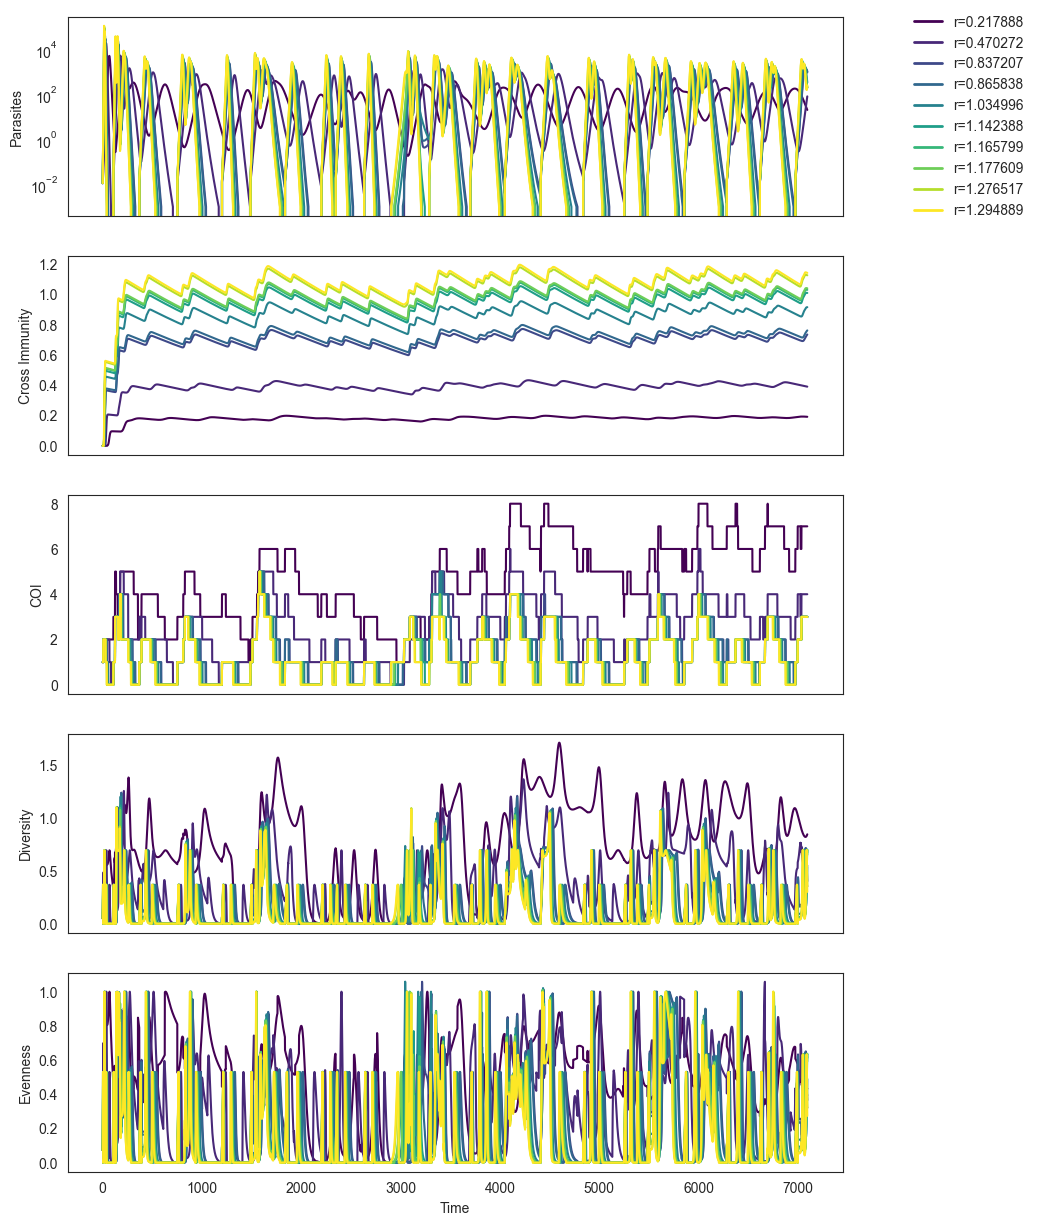
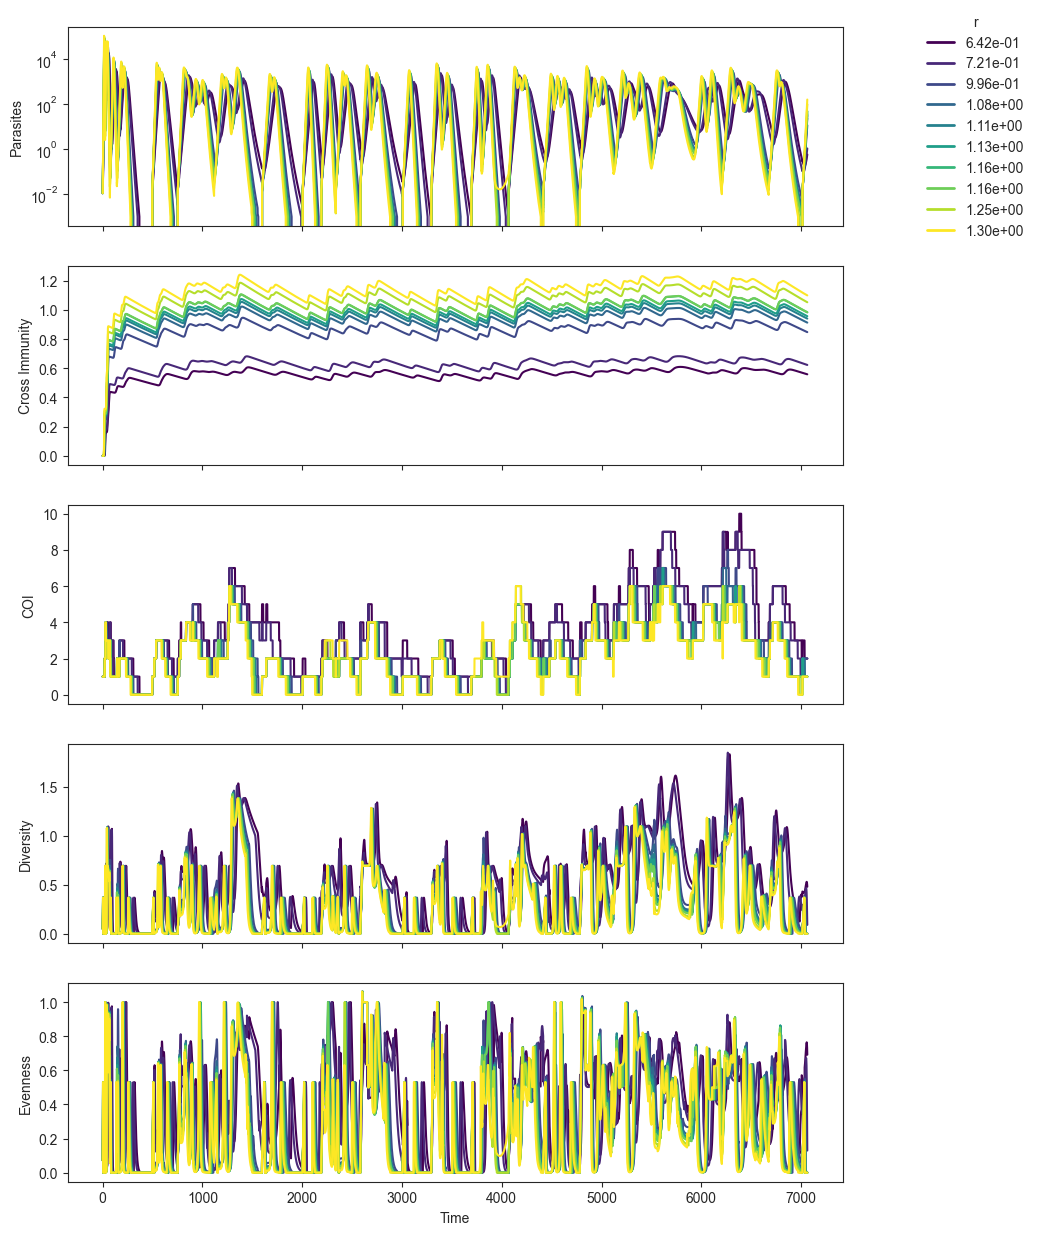
modificaciones a las distribuciones

diff --git a/ode-solver-simulation/src/simulation.py b/ode-solver-simulation/src/simulation.py
@@ -1,32 +1,34 @@
+
 import numpy as np
 import pandas as pd
-from utils import sweep_parameters, runs, params,sweep_mean_infections
+from utils import sweep_parameters, runs, params,sweep_mean_infections,shannon_diversity,runs_a
 from scipy.stats import ttest_ind
 import matplotlib.pyplot as plt
 import plots
+
+np.random.seed(19680801)
 
 p= params()
 
 #Hypothesis: this should not effect on persistency  
      
 # First simulation: r is a value in a uniform distribution between 0.5 to 1
-#r_values_uniform = np.log(np.sort(np.random.uniform(1, 14, 10)))/2
-#s1= sweep_parameters(p,'r',r_values_uniform)
+r_values_uniform = np.log(np.sort(np.random.uniform(1, 14, 10)))/2
+s1= sweep_parameters(p,'r',r_values_uniform)
     
 # Second simulation: r is a randomly picked value in the same uniform distribution for each n_strain
 
-
-#s2= runs('r',p,10)
+s2= runs('r',p,10)
 
 #Third simulation: alpha is a value between 7e- 5to 7e-7 
-#exponents = np.arange(4, 8, 0.25)
-#alpha_values = 7 * 10**(-exponents)
-#s3= sweep_parameters(p,'a',alpha_values)
+exponents = np.arange(4, 8, 0.25)
+alpha_values = 7 * 10**(-exponents)
+s3= sweep_parameters(p,'a',alpha_values)
 
 
 #Fourth simulation: alpha is randomly picked value from a normal distribution for each n_strain
-
-s4= runs('a',p,10)
+s41= runs_a(p,10) #uniforme
+s4,distributions= runs_a(p,10,'normal',1*(10**-4))
 
 
 #Changing mean infection times 
@@ -35,9 +37,14 @@ mean_infections=np.round(np.linspace(1,10,10))
 s5=sweep_mean_infections(mean_infections)
 
 # Plot the simulations
-#plots.plot_simulations(s1, p, 'r', r_values_uniform, f_name='simulation_plot_s1.png')
-#plots.plot_simulations(s2, p, 'r', [s2[i][0] for i in range(len(s2))], f_name='simulation_plot_s2.png')
-#plots.plot_simulations(s3, p, 'a', alpha_values, f_name='simulation_plot_s3.png')
+plots.plot_simulations(s1, p, 'r', r_values_uniform, f_name='simulation_plot_s1.png')
+plots.plot_simulations(s2, p, 'r', [s2[i][0] for i in range(len(s2))], f_name='simulation_plot_s2.png')
+plots.plot_simulations(s3, p, 'a', alpha_values, f_name='simulation_plot_s3.png')
 plots.plot_simulations(s4, p, 'a', [s4[i][0] for i in range(len(s4))], f_name='simulation_plot_s4.png')
+plots.plot_simulations(s41, p, 'a', [s41[i][0] for i in range(len(s41))], f_name='simulation_plot_s41.png')
 plots.plot_simulations(s5, p, 'mean infections', mean_infections, f_name='simulation_plot_s5.png')
 #Analysis 
+
+parasites,cross_im,coi,shannon_diversity,shannon_evenness= shannon_diversity(s4[5][1],p['n_strains'])
+plots.figTSeries(s4[5][1],coi, shannon_diversity, shannon_evenness, p)
+plots.normal_distributions(distributions)

diff --git a/ode-solver-simulation/src/utils.py b/ode-solver-simulation/src/utils.py
@@ -1,7 +1,8 @@
 from ODE_Solver_persistence import initCond, odeSolver, odeFunNoLimitImmunity
 import numpy as np
+import pandas as pd
 
-
+np.random.seed(19680801)
 def params(mean_infections_per_season=3, t_dry=181, years=20, year_duration=365):
 
     """
@@ -52,17 +53,38 @@ def runs(param,params,times):
             p= params.copy()
             p['r'] = np.log(np.random.uniform(1, 14, p['n_strains']))/2
             sol= solveModel(p)
-            results.append((i, sol))
-        return results
-    elif param=='a':
-        exponents = np.arange(4, 8, 0.25)
-        alpha_values = 7 * 10**(-exponents)
+            results.append((i+1, sol))
+    return results
+    
+def runs_a(params, times, distribution='uniform', sd=1):
+    results= []
+   
+    
+    if distribution=='normal':
+    
+        distributions=[] 
+        for i in range(times): 
+            p = params.copy()
+            p['a'] = np.abs(np.random.normal(7 * (10**-6), sd, p['n_strains']))
+            sol = solveModel(p)
+            results.append((i+1, sol))
+            for a_value in p['a']:
+                distributions.append((i, a_value))
+        df = pd.DataFrame(distributions, columns=['simulation', 'a'])
+        return results, df
+    
+    
+    else: 
+        
+        distributions=[]
         for i in range(times):
             p = params.copy()
-            p['a'] = np.random.normal(alpha_values.mean(), alpha_values.std(), p['n_strains'])
+            p['a'] = np.random.uniform(7 * (10**-7), 7 * (10**-5), p['n_strains'])
             sol = solveModel(p)
-            results.append((i, sol))
+            results.append((i+1, sol))
         return results
+    
+        
 
 def shannon_diversity(sol,n_strains):
     parasites = np.array(sol.y[0:n_strains, :].sum(axis=0))

diff --git a/ode-solver-simulation/src/plots.py b/ode-solver-simulation/src/plots.py
@@ -3,9 +3,10 @@ from utils import shannon_diversity
 import matplotlib.pyplot as plt
 import matplotlib.colors as mlc
 import numpy as np
-sns.set_style("white") # make pwetty plots
+sns.set_style("ticks") # make pwetty plots
 cb_palette = ["#999999", "#E69F00", "#56B4E9", "#009E73",
-              "#F0E442", "#0072B2", "#D55E00", "#CC79A7"]
+              "#F0E442", "#0072B2", "#D55E00", "#CC79A7",
+              "#8E44AD", "#2ECC71"]
     # http://www.cookbook-r.com/Graphs/Colors_(ggplot2)/#a-colorblind-friendly-palette
     # http://jfly.iam.u-tokyo.ac.jp/color/
 
@@ -186,8 +187,17 @@ def plot_simulations(simulations, params, param_name, param_values, f_name='simu
 
     # Add a legend
     handles = [plt.Line2D([0], [0], color=colors[i % len(colors)], lw=2) for i in range(len(simulations))]
-    labels = [f'{param_name}={param_values[i]:.6f}' for i in range(len(simulations))]
-    axs[0].legend(handles, labels, loc='center right', bbox_to_anchor=(1.25, 0.5), frameon=False)
+    labels = [f'{param_values[i]:.2e}' for i in range(len(simulations))]
+    axs[0].legend(handles, labels, loc='center right', bbox_to_anchor=(1.25, 0.5), frameon=False, title=param_name)
 
     plt.savefig(f_name, bbox_inches='tight')
     plt.show()
+    
+def normal_distributions(distributions):
+    colors = plt.cm.viridis(np.linspace(0, 1, len(distributions['simulation'].unique()))).tolist()
+
+    chart = sns.displot(data=distributions, x='a', hue='simulation', kind='kde', fill=False, palette=colors, height=5, aspect=1.5)
+    
+    new_title = 'Simulation'
+    chart._legend.set_title(new_title)
+
